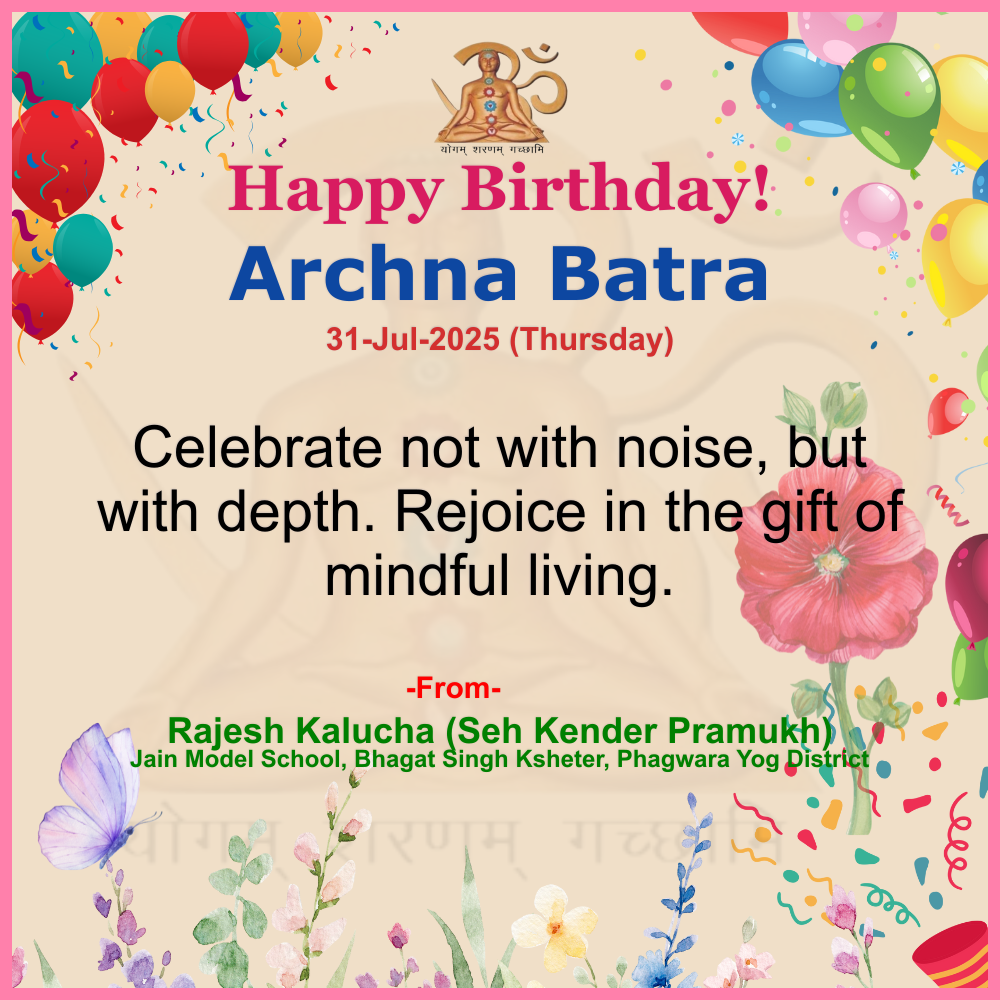
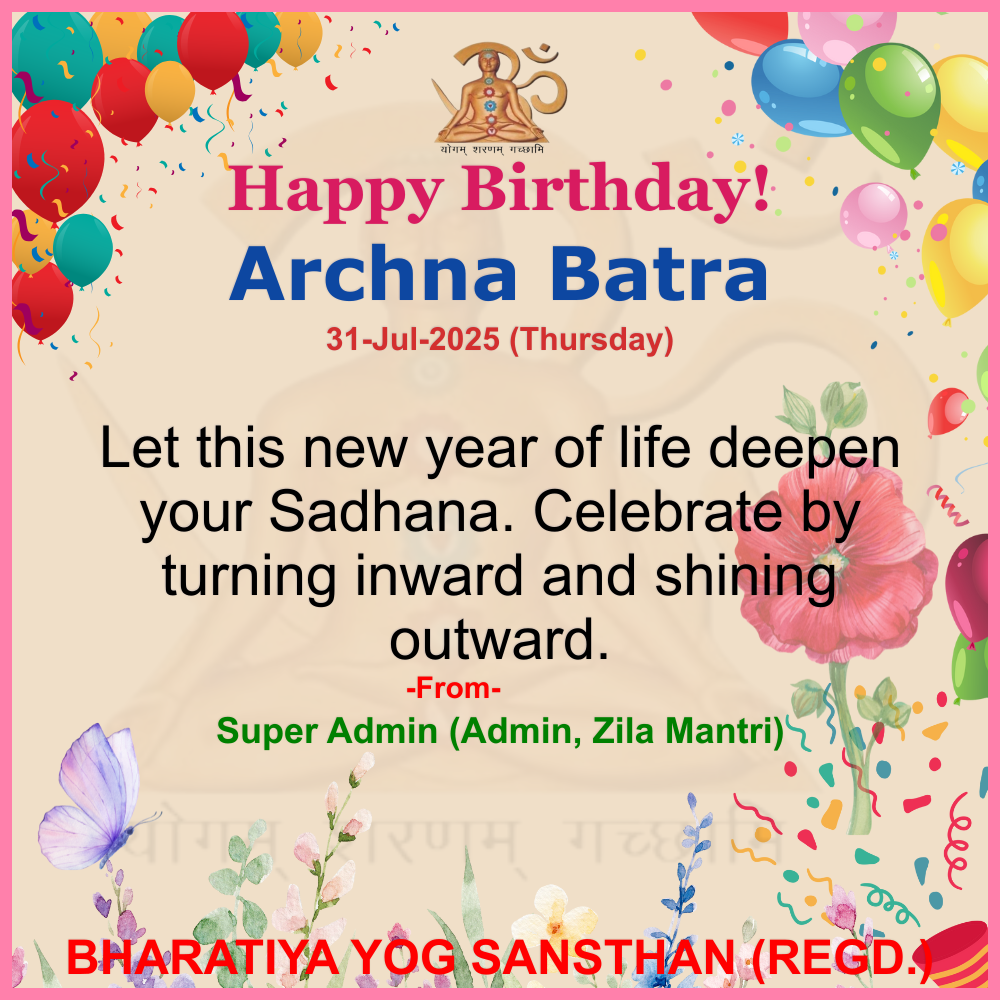
spinner added on YES on greeting

Changed region(s): [[0.093, 0.403, 0.899, 0.682], [0.062, 0.93, 0.93, 0.992], [0.124, 0.713, 0.868, 0.775]]

diff --git a/controllers/greetingController.js b/controllers/greetingController.js
@@ -162,7 +162,9 @@ exports.generateGreeting = async (req, res) => {
     ctx.fillText(fromText, width / 2, 710);
     ctx.font = "bold 24px Arial";
     ctx.fillText(hierarchyText, width / 2, 745);
-
+    ctx.font = "bold 48px Arial"
+    ctx.fillStyle = "red"
+    ctx.fillText("BHARATIYA YOG SANSTHAN (REGD.)", width / 2, 930);
     // Save File
     const safeName = name.replace(/\s+/g, "_");
     const safeMobile = (mobile || "").replace(/\s+/g, "_");
